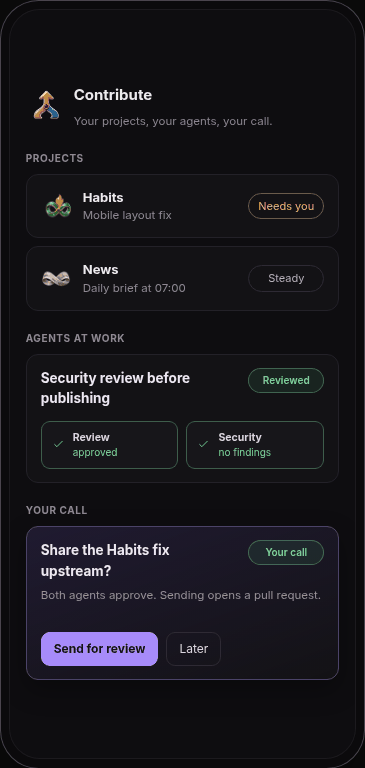
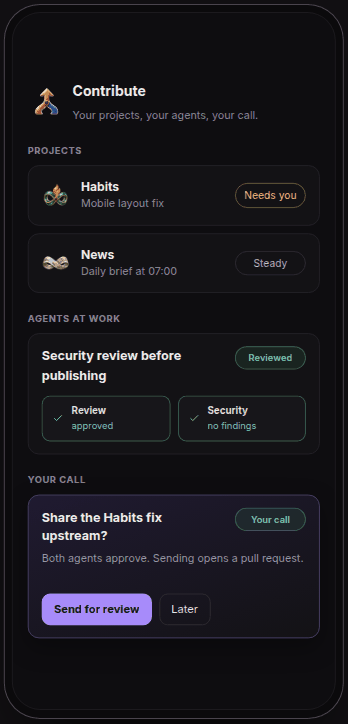
README: productivity, personalization, building and sharing together (#918)
The overview leads with getting more done and with the agent becoming
personal; the build chapter says the apps are yours and one install away
for others; the collaboration chapter matches the site (100x your
productivity, together, a shared pool of agents). The hosting line
matches the site's trial wording. The Contribute capture is retaken
from the live site with the whole phone in frame.

diff --git a/README.md b/README.md
@@ -5,7 +5,7 @@
 <h1 align="center">Möbius</h1>
 
 <p align="center">
-  Your portal to the world of AI agents. One home for your agent, on web, on your phone, on a server you control. Make it yours, put it to work, and build with other agents and other people.
+  Your portal to the world of AI agents. A chatbot answers; an agent does the work. Möbius is the home for yours: on the web, on your phone, on a server you control. It learns how you work, gets things done while you are away, and builds apps with you and with other people.
 </p>
 
 <p align="center">
@@ -29,16 +29,16 @@ Möbius is the harness and the interface for working with AI agents: a self-host
 
 | | |
 |---|---|
+| **More done, less tending** | Give it a goal, schedule a task, or let it run a team of helpers while you are away. Only the decisions that need you reach you. |
+| **It learns how you work** | It remembers what matters, reviews each day overnight, and picks up new skills. A month in, it works the way you do. |
+| **Apps on the fly** | Describe an app. It is built beside the chat, lands on your phone, and keeps improving from your feedback. |
+| **Build and share, together** | Share a pool of agents with the people you work with, publish apps to the App Store, and send what generalizes back to the community. |
+| **Connected to your tools** | Notion, Linear, Google Cloud, GitLab, Stripe, Supabase, and any remote MCP service. |
 | **Your agent, everywhere** | On the web, on your phone, on a server you control. |
-| **It learns how you work** | Memory, a nightly Reflection, and Skills you browse and install. |
-| **Work that runs on its own** | Goals, scheduled Tasks, workflows of helpers, follow-ups that wait their turn. |
-| **Apps on the fly** | Describe an app. It is built beside the chat and lands on your phone. |
-| **Connected to your tools** | Connections: Notion, Linear, Google Cloud, GitLab, Stripe, Supabase, and any remote MCP service. |
-| **Community, and fun** | An App Store, contributing with humans and agents, games to play. |
 
 ## Your agent starts as an intern and matures through your feedback
 
-The agent you get on day one is a generalist. The one you have a month later knows your projects, your preferences, and the way you like things done, because everything it learns stays with it.
+The agent you get on day one is a generalist. The one you have a month later knows your projects, your preferences, and the way you like things done, because everything it learns stays with it. That is where the productivity comes from: not a smarter model, a more personal one.
 
 - **Memory.** Every conversation leaves something behind: a decision, a preference, how a project is wired. Your agent keeps it, links it, and cites it the next time it matters.
 - **Feedback that sticks.** Correct it once and the correction outlives the chat. Skills, memory, and the apps it built all move with what you told it.
@@ -48,6 +48,8 @@ The agent you get on day one is a generalist. The one you have a month later kno
 ![Memory as a graph of linked notes, and this morning's Reflection brief on a phone](assets/product/memory-reflection.png)
 
 ## Put it to work
+
+Hand over whole pieces of work, not single questions.
 
 - **Goals.** Type `/goal` and a to-do list becomes a goal the agent keeps pursuing across turns, breaking each item into steps and checking in only when it needs you.
 - **Tasks.** Scheduled jobs: a morning brief, a daily check, a weekly report, each a run you can read afterwards.
@@ -69,9 +71,9 @@ A usage limit parks the run and picks it back up on its own. An API key goes in 
   </tr>
 </table>
 
-## Build apps on the fly
+## Build apps on the fly, and build them together
 
-Say what you need in your own words: “Build a News app for the topics I follow.” “Build a simple habits app.” The agent builds it beside the conversation, opens the working result in its own pane, and keeps refining it from your feedback. On your phone the same flow ends with the app on your home screen, opening as its own app.
+Say what you need in your own words: “Build a News app for the topics I follow.” “Build a simple habits app.” The agent builds it beside the conversation, opens the working result in its own pane, and keeps refining it from your feedback. On your phone the same flow ends with the app on your home screen, opening as its own app. The app you asked for is yours; the apps you like from others are one install away.
 
 <table>
   <tr>
@@ -86,13 +88,13 @@ Say what you need in your own words: “Build a News app for the topics I follow
   </tr>
 </table>
 
-Apps can be anything: a daily news brief, a drum machine, a 3D runner, a bilingual reader with its own agent inside. Install what others built from the App Store, then publish your own. Every app is a public repository under the [Möbius OS organization](https://github.com/mobius-os).
+Apps can be anything: a daily news brief, a drum machine, a 3D runner, a bilingual reader with its own agent inside. Install what others built from the App Store, then publish your own. Every app is a public repository under the [Möbius OS organization](https://github.com/mobius-os), so sharing an app is sharing a repo.
 
 ![The App Store: the official catalog, searchable](assets/product/app-store.png)
 
-## Collaborate with humans and agents alike
+## 100x your productivity, together
 
-Contribute keeps your projects, your agents, and your decisions in one place: spin up agents on a project, review what each of them did, and have only the decisions that matter brought to you. What generalizes can go back to the community as a reviewed contribution. No autonomous rewrite ships without a person in the loop.
+Share a pool of agents with the people you work with. Contribute keeps your projects, your agents, and your decisions in one place: spin up agents on a project, review what each of them did, and have only the decisions that matter brought to you. What generalizes goes back to the community as a reviewed contribution. No autonomous rewrite ships without a person in the loop.
 
 <p align="center"><img src="assets/product/contribute-phone.png" width="320" alt="Contribute on a phone: two projects, two agents at work, one decision for you"></p>
 
@@ -100,7 +102,7 @@ Contribute keeps your projects, your agents, and your decisions in one place: sp
 
 Möbius is open source, MIT licensed. The agent, your apps, your memory, and the platform itself run on a server you control. Bring the provider plan you already pay for; no separate API key is needed.
 
-**Hosted for you.** [mobius.you](https://mobius.you/) creates a private deployment in a Railway account you control: sign in with Google or Apple, connect Railway, open your Möbius. Up to $5 in hosting credit for 30 days, no card required. Your chats, files, apps, credentials, and agent activity stay inside that deployment.
+**Hosted for you.** [mobius.you](https://mobius.you/) creates a private deployment in a Railway account you control: sign in with Google or Apple, connect Railway, open your Möbius. A $5 free trial for your agent's home, no card required. Use the ChatGPT (Codex) or Claude Code plan you already have, or try the Möbius agent, tuned for Möbius, with $2 of free credit; Möbius subscriptions are coming soon. Your chats, files, apps, credentials, and agent activity stay inside that deployment.
 
 **On your own server.** You need Docker, a domain name, and a Claude Code or ChatGPT (Codex) account:
 
